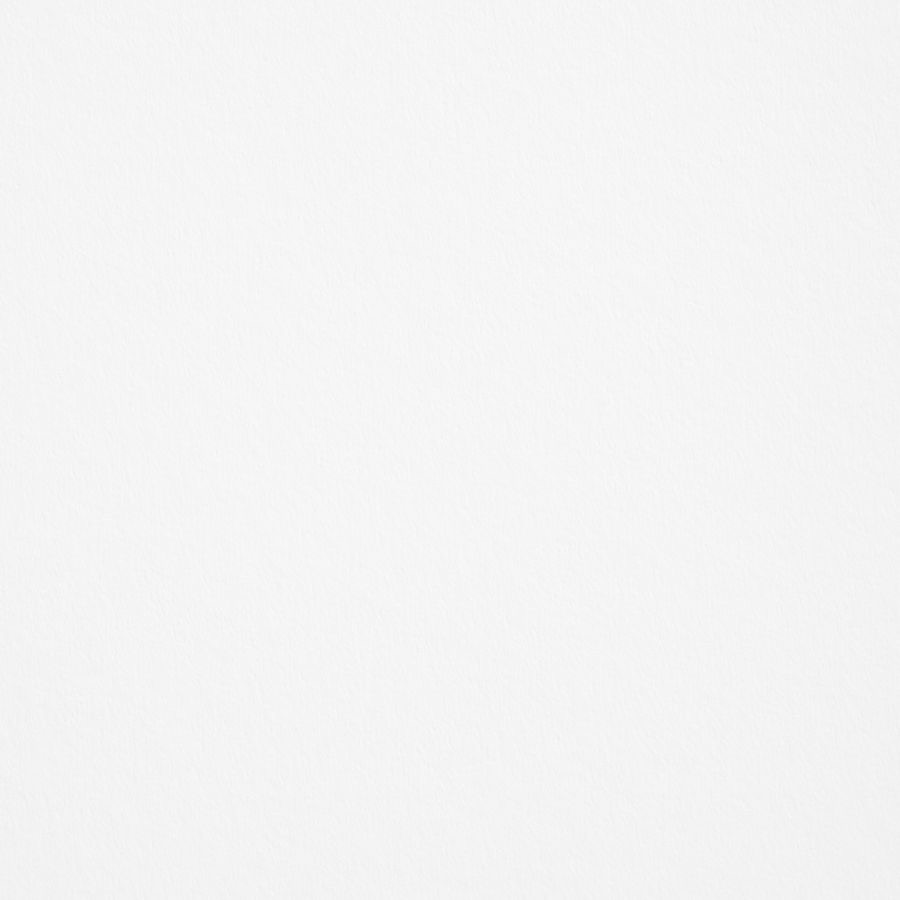
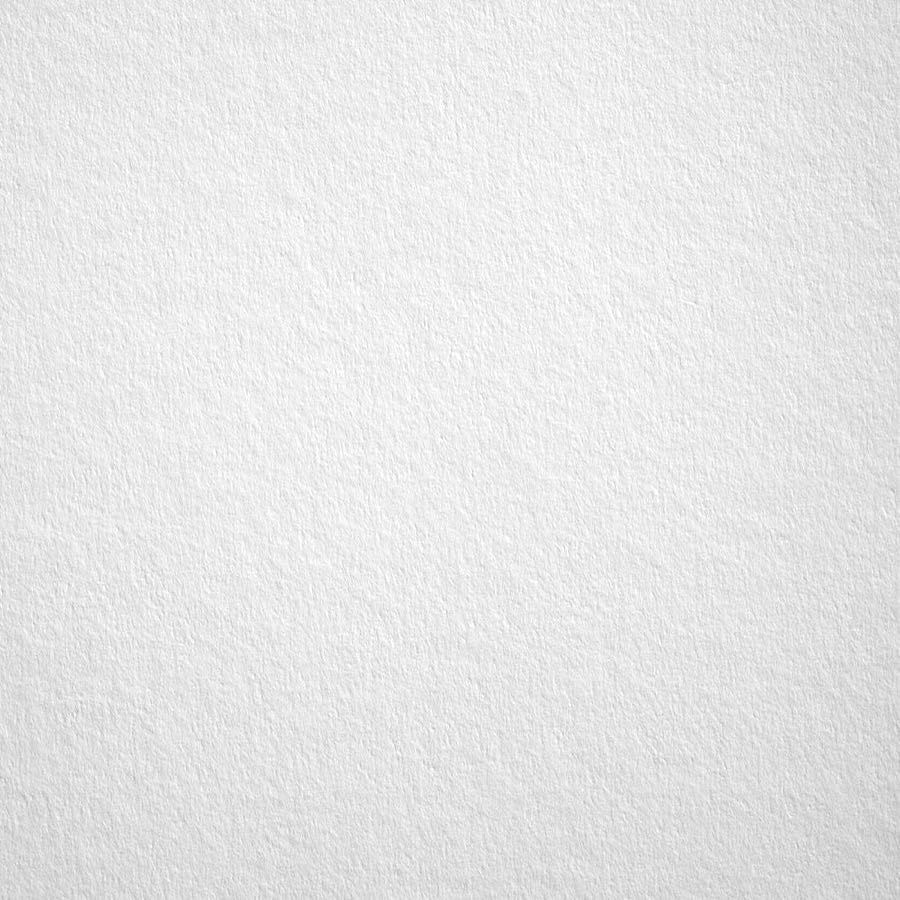
Onglets garantis sur une ligne + contraste des deux papiers nettement renforcé
- Barre d'onglets : grille rigide (qui pouvait tronquer les libellés) remplacée
  par un flex sans rétrécissement — aucun retour à la ligne ni troncature à
  aucune largeur (vérifié 1440 / 1024 / 375 px) ; défilement horizontal en
  ultime recours.
- Papiers nettement différenciés : Old Mill = grain feutré amplifié (~×2,7,
  moyenne remontée à 0,975 pour ne pas grisailler l'ivoire du thème) ;
  Condat = surface lisse satinée, sans grain (bande diagonale retirée de la
  version « page » : elle se répétait en rayures).
- Fond de scène adouci d'un voile blanc : la matière se devine sans écraser
  le livret.

diff --git a/css/pages/configurateur.css b/css/pages/configurateur.css
@@ -89,16 +89,23 @@
   min-height: 0;
 }
 
+/* 5 onglets (Infos · Pages · Chants · Style · Papier) TOUJOURS sur une ligne :
+   flex sans rétrécissement → aucun libellé tronqué, aucun retour à la ligne ;
+   si l'espace manquait vraiment, la barre défile horizontalement. */
 .cfg-tabs {
-  display: grid;
-  /* 5 onglets : Informations · Pages · Chants · Style · Papier */
-  grid-template-columns: repeat(5, 1fr);
+  display: flex;
+  flex-wrap: nowrap;
+  overflow-x: auto;
+  scrollbar-width: none;
+  -ms-overflow-style: none;
   border-bottom: 1px solid var(--border-soft);
   flex: none;
 }
+.cfg-tabs::-webkit-scrollbar { display: none; }
 .cfg-tab {
+  flex: 1 0 auto;
   min-height: 48px;
-  padding: 0 2px;
+  padding: 0 var(--sp-2);
   background: none;
   border: none;
   border-bottom: 2px solid transparent;
@@ -107,14 +114,10 @@
   font-weight: 600;
   letter-spacing: 0;
   white-space: nowrap;
-  overflow: hidden;
-  text-overflow: ellipsis;
   color: var(--ink-soft);
   cursor: pointer;
   transition: color var(--dur-fast) var(--ease), border-color var(--dur-fast) var(--ease);
 }
-/* Libellés courts (« Infos ») : le panneau fait 380 px, soit ~76 px par onglet —
-   « Informations » en entier s'y ferait tronquer. Nom complet en aria-label. */
 .cfg-tab:hover { color: var(--ink); }
 .cfg-tab.is-active { color: var(--gold-deep); border-bottom-color: var(--gold); }
 
@@ -577,10 +580,13 @@
 }
 .cfg-papier-nom { font-size: var(--fs-sm); font-weight: 500; color: var(--ink); }
 
-/* --- Simulation : le livret posé sur le papier choisi --- */
+/* --- Simulation : le livret posé sur le papier choisi ---
+   Voile blanc par-dessus : la scène suggère la matière sans devenir un grand
+   aplat gris qui écraserait le livret. */
 .cfg-view-edition, .cfg-book-holder {
-  background-image: var(--cfg-paper, none);
-  background-size: cover; background-position: center;
+  background-image: linear-gradient(rgba(255, 255, 255, .62), rgba(255, 255, 255, .62)), var(--cfg-paper, none);
+  background-size: cover, cover;
+  background-position: center, center;
 }
 .cfg-papier-desc { display: block; font-size: var(--fs-xs); color: var(--ink-soft); margin-top: 3px; line-height: 1.45; }
 .cfg-papier { align-items: flex-start; padding: 10px; }